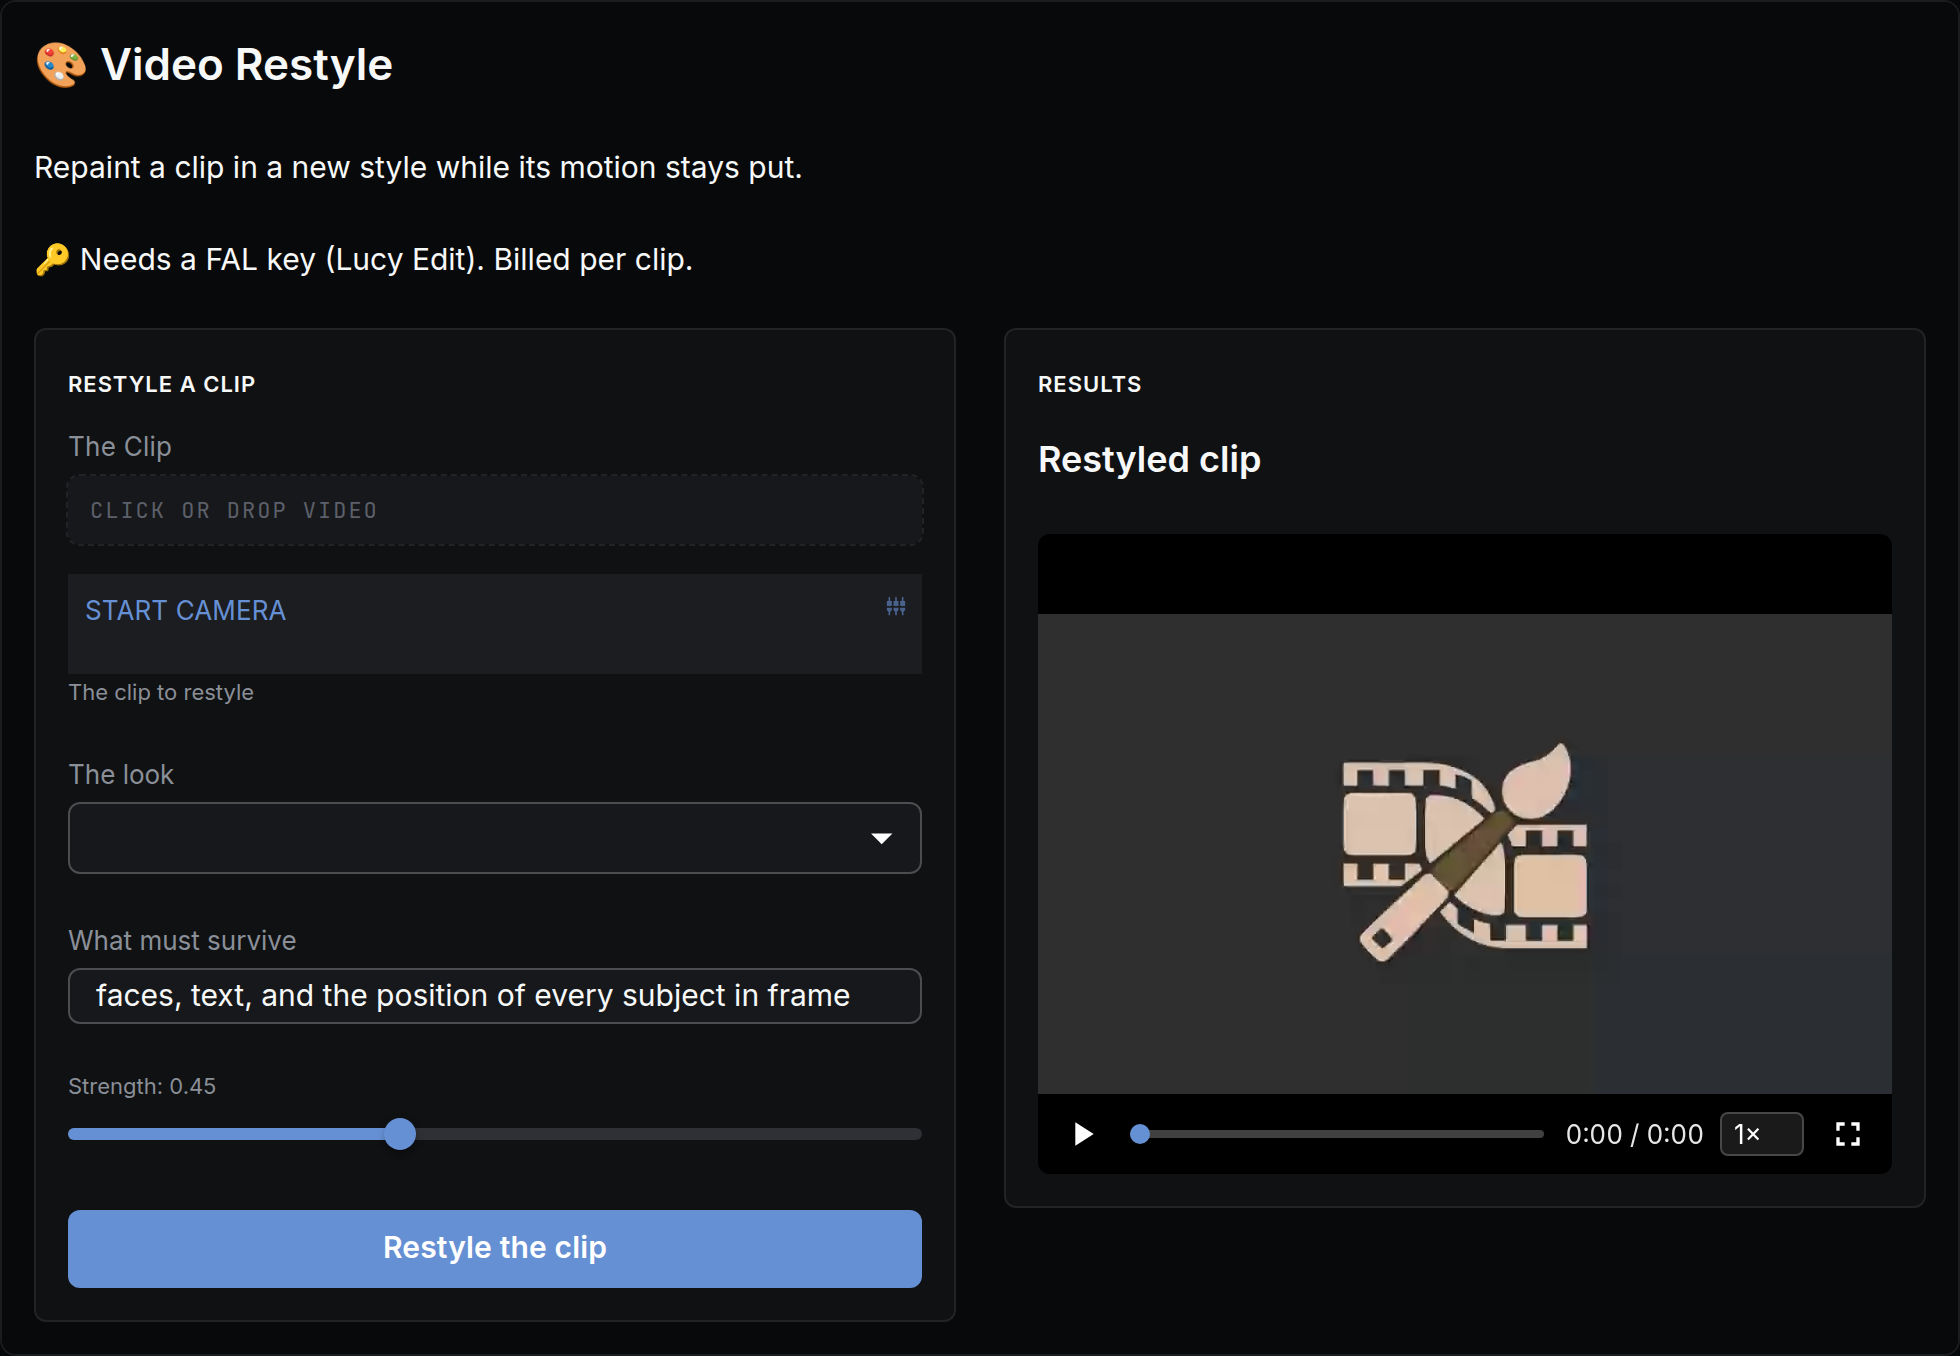
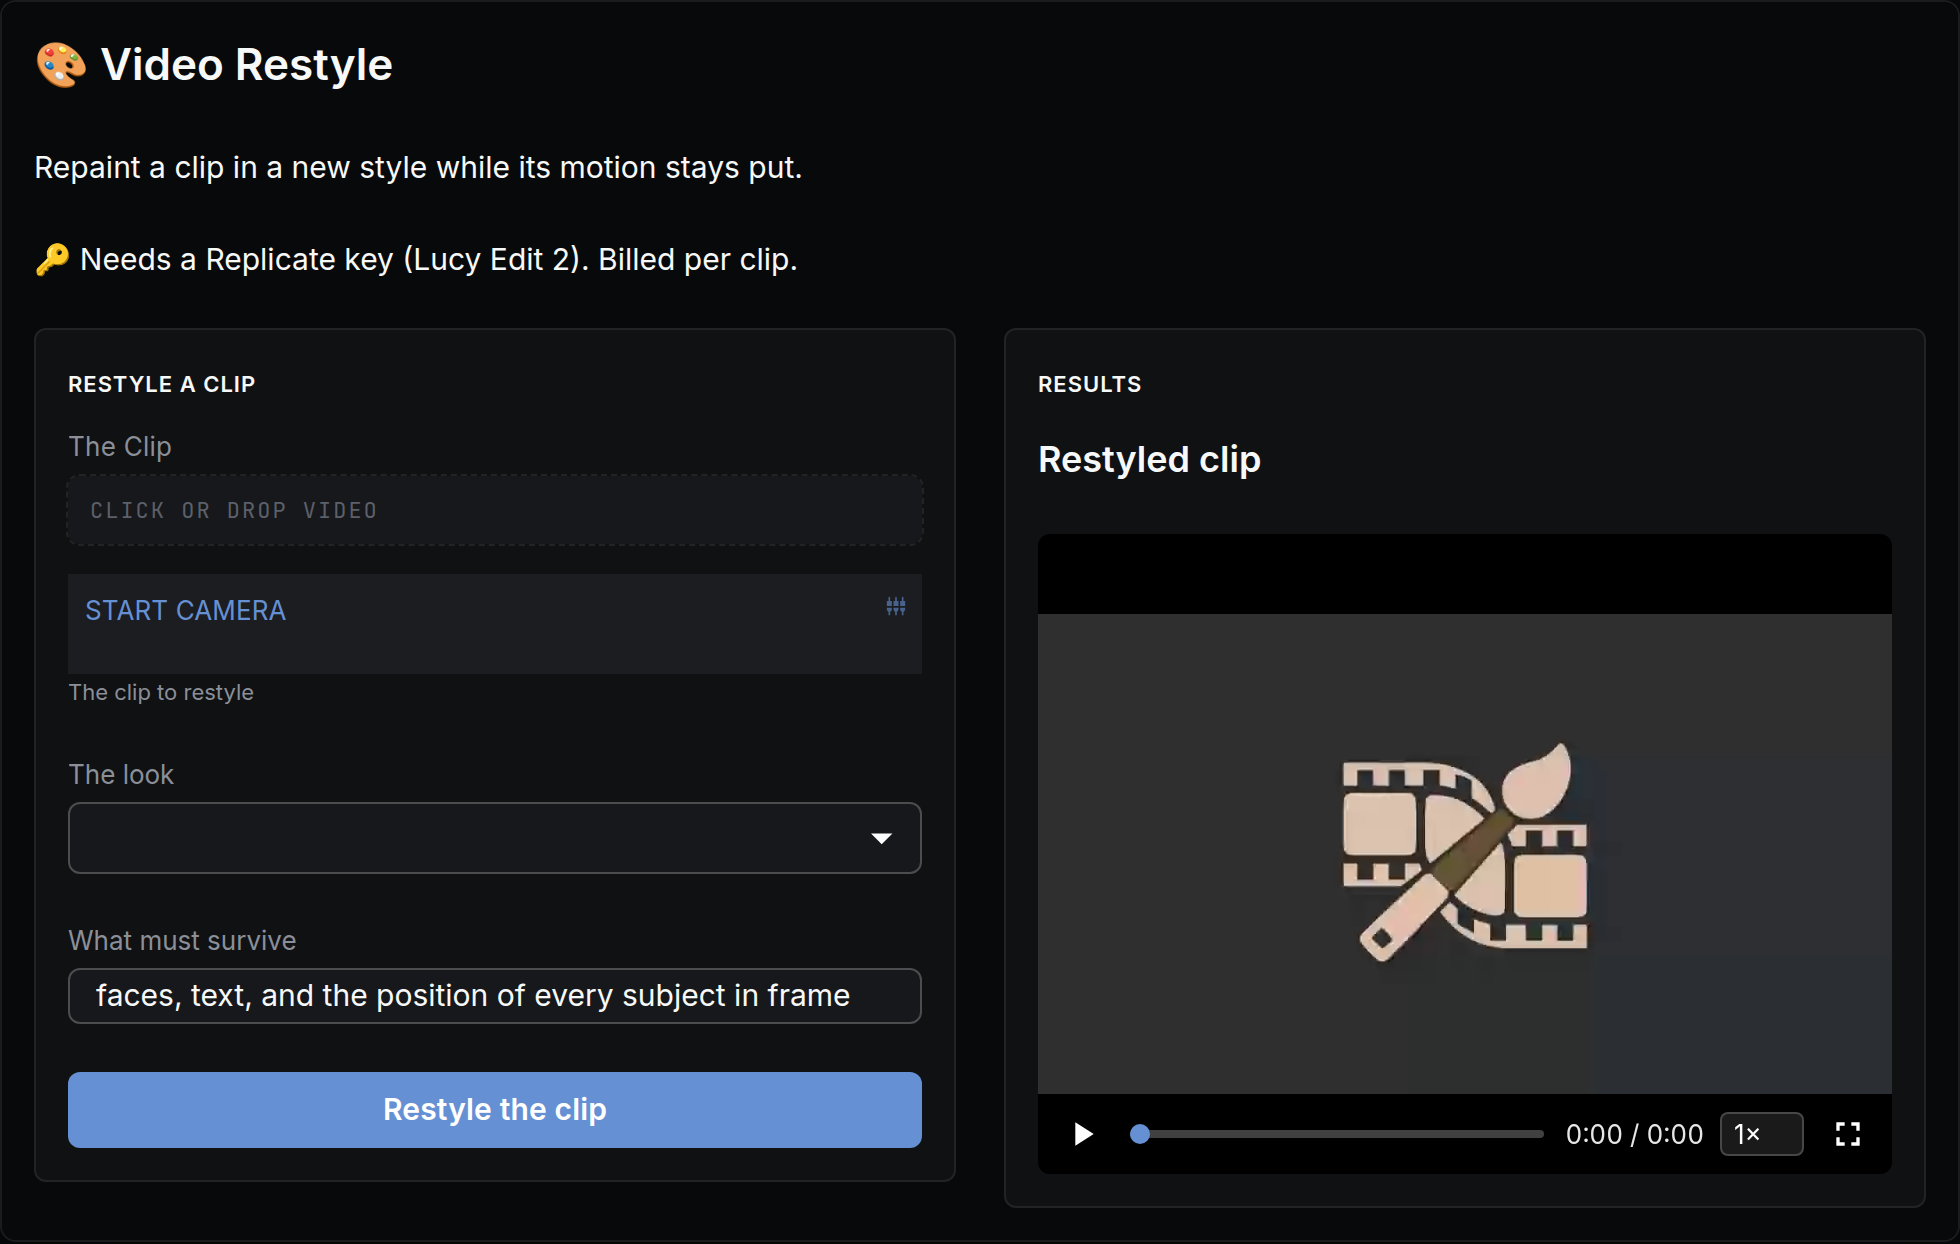
fix(apps): drop inert dials and name the providers the apps run on
Review found three app definitions promising more than the bundled
models deliver. Vary Image and Video Restyle exposed a strength slider,
but Nano Banana Edit and Lucy Edit 2 declare no strength input and both
providers drop undeclared arguments, so the dial changed nothing. AI
Spokesperson's pace slider had the same problem: the provider sends
`speed` while the Inworld model declares `speaking_rate`. Scene Builder
offered two to five seconds, none of which the LTX fast endpoint
accepts, so every short choice silently billed the six-second default.

The sliders are gone, the duration slider offers only the lengths the
endpoint takes at the template's resolution, and the key notes for
Video Restyle, AI Spokesperson and Multi-Shot Video now name the
providers the graphs run on: Replicate for Lucy Edit and the Inworld
voice, KIE for the GPT Image keyframes.

Claude-Session: https://claude.ai/code/session_01NjeordLdNTaof3WYUyTSZG

diff --git a/marketing/src/data/miniAppEntries.generated.ts b/marketing/src/data/miniAppEntries.generated.ts
@@ -79,7 +79,7 @@ export const miniAppEntries: MiniAppEntry[] = [
     "name": "AI Spokesperson",
     "summary": "Text-to-speech voices the script, then a lip-sync model redrives the mouth in the source footage so the delivery matches. Localize a take, fix a fluffed line, or spin one recording into many variants.",
     "featured": false,
-    "note": "🔑 Needs a FAL key for lip-sync and an Inworld key for the voice. Both steps are billed per run.",
+    "note": "🔑 Needs a Replicate key for the voice (Inworld TTS) and a FAL key for the lip-sync. Both steps are billed per run.",
     "workflows": [
       {
         "name": "AI Spokesperson",
@@ -106,10 +106,6 @@ export const miniAppEntries: MiniAppEntry[] = [
       {
         "label": "What they should say",
         "kind": "text"
-      },
-      {
-        "label": "Speaking pace",
-        "kind": "number"
       }
     ],
     "outputs": [
@@ -118,7 +114,7 @@ export const miniAppEntries: MiniAppEntry[] = [
         "kind": "video"
       }
     ],
-    "widgetCount": 13
+    "widgetCount": 12
   },
   {
     "route": "/apps/ask-your-documents",
@@ -706,7 +702,7 @@ export const miniAppEntries: MiniAppEntry[] = [
     "name": "Multi-Shot Video",
     "summary": "A director model writes the shot list and a style bible, every shot is rendered as a keyframe and animated, and the clips are cut together into one video.",
     "featured": true,
-    "note": "💸 Needs Gemini, OpenAI and Google Veo keys. Every shot is one Veo call, metered per second of video, so start with a small shot count.",
+    "note": "💸 Needs Gemini and KIE keys: Gemini writes the shots and animates them with Veo, KIE renders the keyframes with GPT Image. Every shot is one Veo call, metered per second of video, so start with a small shot count.",
     "workflows": [
       {
         "name": "Movie Trailer Generator",
@@ -1339,10 +1335,6 @@ export const miniAppEntries: MiniAppEntry[] = [
       {
         "label": "Add directions (optional)",
         "kind": "text"
-      },
-      {
-        "label": "How far to go",
-        "kind": "number"
       }
     ],
     "outputs": [
@@ -1351,7 +1343,7 @@ export const miniAppEntries: MiniAppEntry[] = [
         "kind": "image"
       }
     ],
-    "widgetCount": 14
+    "widgetCount": 13
   },
   {
     "route": "/apps/vertical-cut",
@@ -1419,9 +1411,9 @@ export const miniAppEntries: MiniAppEntry[] = [
     "indexable": true,
     "slug": "video-restyle",
     "name": "Video Restyle",
-    "summary": "Upload footage, name the look and what must survive, and a video-to-video model applies the style. Strength is the dial: low keeps the original read, high commits to the new look.",
+    "summary": "Upload footage, name the look and what must survive, and a video-to-video model applies the style while the motion stays put.",
     "featured": false,
-    "note": "🔑 Needs a FAL key (Lucy Edit). Billed per clip.",
+    "note": "🔑 Needs a Replicate key (Lucy Edit 2). Billed per clip.",
     "workflows": [
       {
         "name": "Video Restyle Studio",
@@ -1451,10 +1443,6 @@ export const miniAppEntries: MiniAppEntry[] = [
       {
         "label": "What must survive",
         "kind": "text"
-      },
-      {
-        "label": "Strength",
-        "kind": "number"
       }
     ],
     "outputs": [
@@ -1463,6 +1451,6 @@ export const miniAppEntries: MiniAppEntry[] = [
         "kind": "video"
       }
     ],
-    "widgetCount": 14
+    "widgetCount": 13
   }
 ];

diff --git a/docs/plans/example-apps.md b/docs/plans/example-apps.md
@@ -229,13 +229,13 @@ the choice is which treatment to run, not how to wire a pipeline.
 
 | App | Workflows bound | Operations | Key widgets | Needs |
 |---|---|---|---|---|
-| Vary Image | Edit a Still with Words | `edit` | ImageInput, Select (what to change), TextInput (extra directions), Slider (`ed.strength`), Image | FAL |
+| Vary Image | Edit a Still with Words | `edit` | ImageInput, Select (what to change), TextInput (extra directions), Image | FAL |
 | Product Reshoot | Put a Product on a Studio Backdrop, Relight a Product for a Seasonal Campaign, Cut a Product Out of Its Background | `backdrop`, `relight`, `cutout` | ImageInput, Select (`comp.prompt`), Select (`rl.prompt`), Image ×3 | FAL |
 | Product Shot Video | Ad Loop from a Product Photo, Spin a Packshot into a Turntable Clip | `loop`, `turntable` | ImageInput, Select, Select (`v.prompt`), Video ×2 | KIE for `loop`, FAL for `turntable` |
-| Multi-Shot Video | Movie Trailer Generator | `trailer` | TextInput, Select, Slider (shot count), Video | Gemini + OpenAI + Veo; cost note |
+| Multi-Shot Video | Movie Trailer Generator | `trailer` | TextInput, Select, Slider (shot count), Video | Gemini (director, Veo) + KIE (keyframes); cost note |
 | Scene Builder | Editorial Still from a Line, Bring a Still to Life | `look`, `motion` | TextInput, Image, Select, Slider (`vid.duration`), Video | FAL |
-| Video Restyle | Video Restyle Studio | `restyle` | WorkflowInput (video), Select, TextInput, Slider (`restyle.strength`), Video | FAL |
-| AI Spokesperson | AI Spokesperson | `revoice` | WorkflowInput (video), TextInput, Slider (`speech.speed`), Video | FAL + Inworld |
+| Video Restyle | Video Restyle Studio | `restyle` | WorkflowInput (video), Select, TextInput, Video | Replicate |
+| AI Spokesperson | AI Spokesperson | `revoice` | WorkflowInput (video), TextInput, Video | Replicate (voice) + FAL (lip-sync) |
 | Upscale Image | Upscale a Still, Take a Product Shot to Print Resolution | `faithful`, `clarity` | ImageInput, Slider (`up.scale`) ×2, Image ×2 | FAL |
 | Vertical Cut | Cut a Landscape Clip for Vertical, Pull a Still from a Clip | `vertical`, `cover` | VideoInput, Slider (`frame.time`), Video, Image | none (ffmpeg) |
 | Ad Maker | Ad Copy in Three Registers, Five Headlines for a Landing Page, Write the Prompt, Then Make the Image | `copy`, `headlines`, `visual` | TextInput, Markdown ×3, Image | OpenAI + FAL |
@@ -246,14 +246,18 @@ Per-app notes, where the table does not say it all:
   is a complete edit instruction; the first one is the graph's own default. A
   second TextInput is bound to the `directions` Input, which the template's
   `tpl` node appends to the instruction, so a typed line can qualify the chosen
-  option instead of replacing it. Leaving it empty changes nothing. Strength
-  drives `ed.strength` directly.
+  option instead of replacing it. Leaving it empty changes nothing. There is no
+  strength control: the edit model declares no such input, and a slider bound
+  to a property the provider drops would promise a dial that does nothing.
 - **Product Reshoot.** One `productPhoto` variable feeds all three operations.
   The setting and season selects drive the prompt property of the edit and
   relight nodes, so the graph's Input nodes stay as they are.
 - **Scene Builder.** `look` writes its `picture` output to the `still` variable,
   which `motion` reads as its `still` input. The still is shown from the
-  variable, so the user sees exactly the frame that will be animated.
+  variable, so the user sees exactly the frame that will be animated. The
+  duration slider offers only lengths the LTX fast endpoint accepts at the
+  template's resolution; a value outside its list is dropped and the endpoint
+  falls back to its default, billing a clip the user did not ask for.
 - **Vertical Cut.** The only keyless app in this set. One `clip` variable of type
   `video` feeds both operations, and one button runs them in parallel.
 - **Ad Maker.** The `offer` variable is user-scoped and persisted; all three
